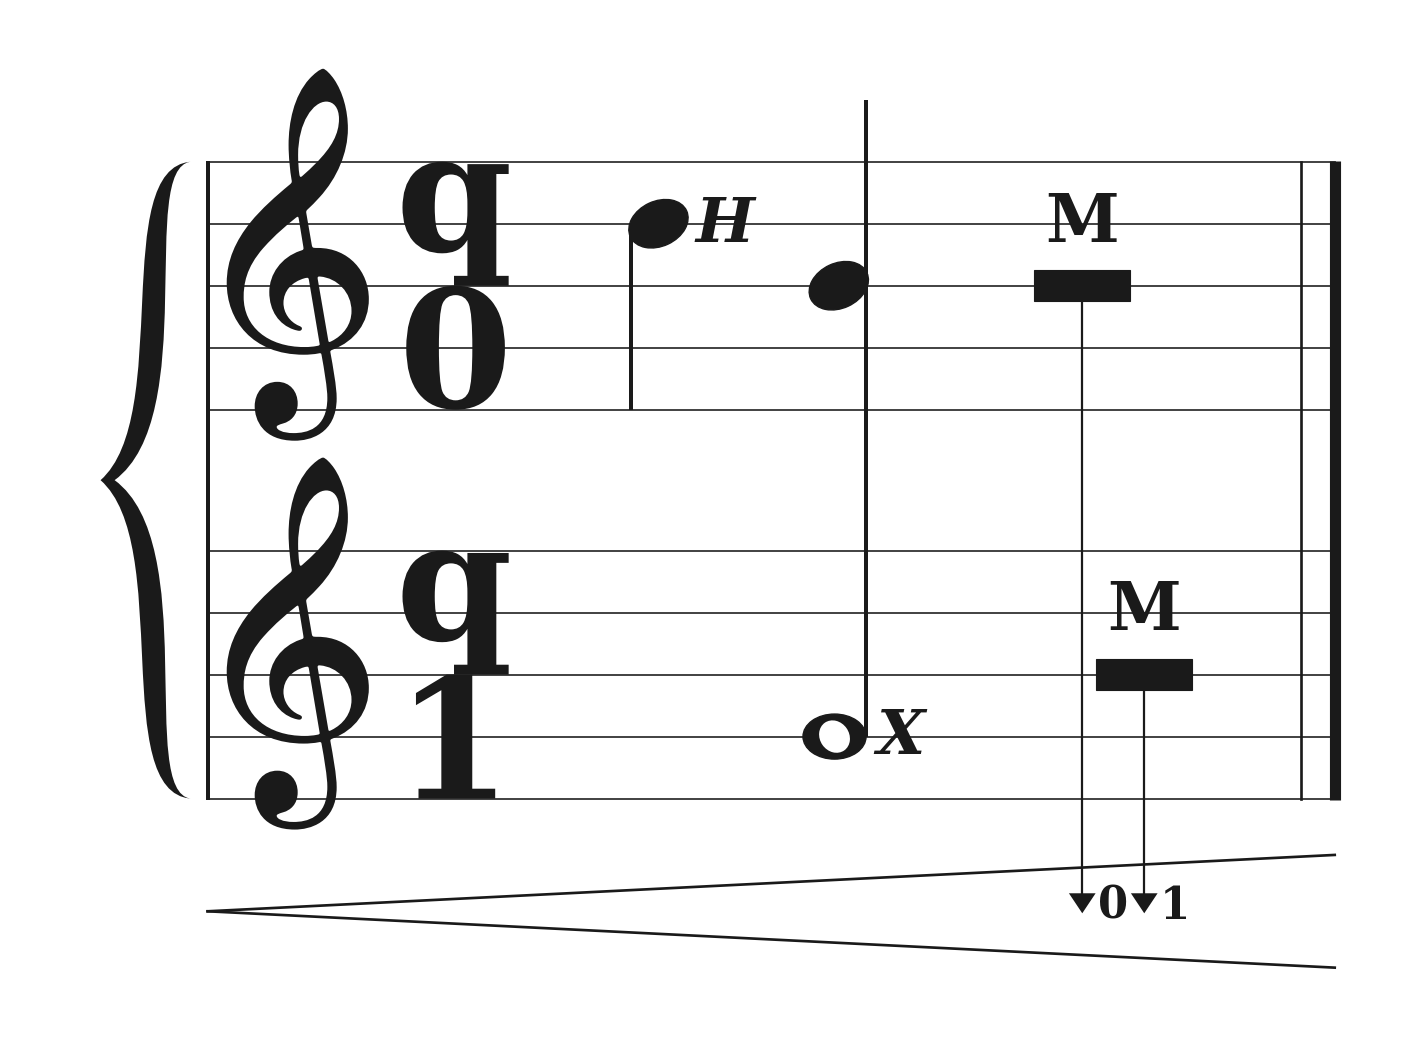
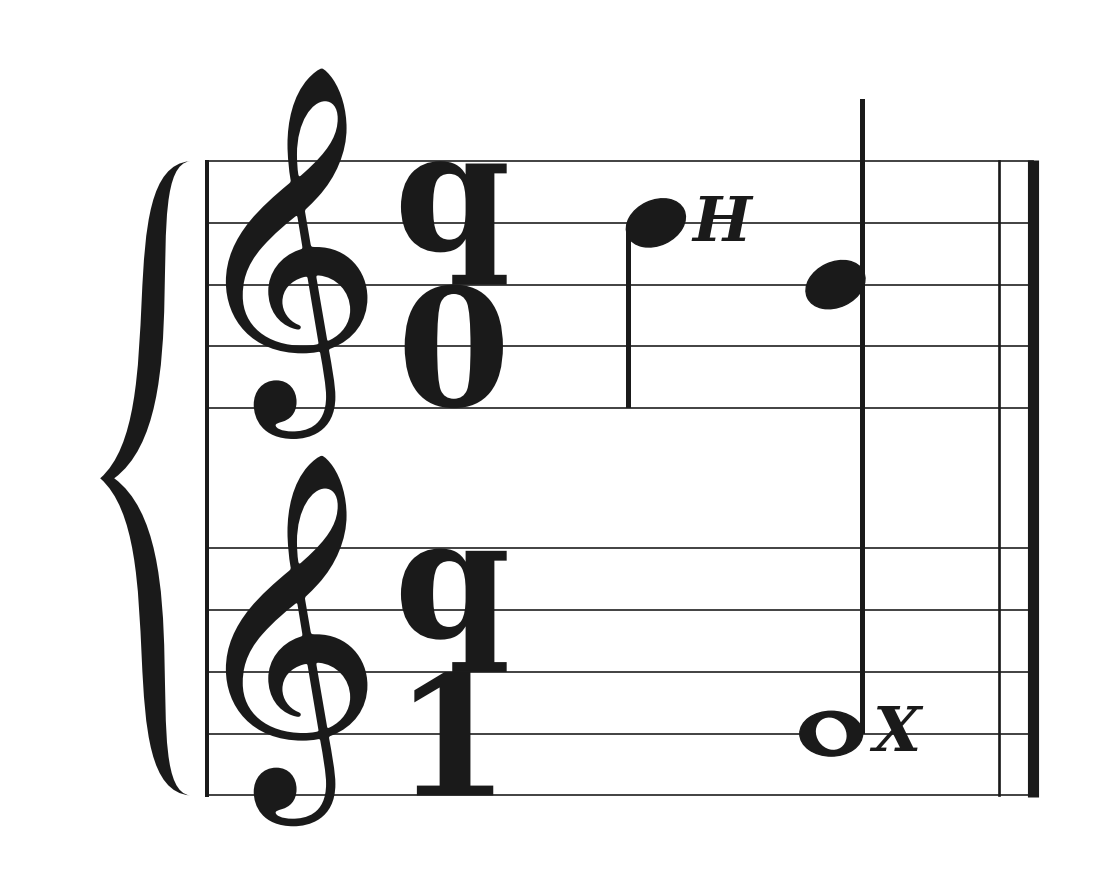
Remove measurement from hello world preview score and quickstart

Changed region(s): [[0.0615, 0.0607, 0.9538, 0.9404], [0.5846, 0.4551, 0.6462, 0.4854]]

diff --git a/docs/hello_world.py b/docs/hello_world.py
@@ -16,7 +16,6 @@ from QuantumSheets.audio import generate_audio
 qc = QuantumCircuit(2)
 qc.h(0)
 qc.cx(0, 1)
-qc.measure_all()
 
 if __name__ == "__main__":
     output_dir = Path(__file__).resolve().parent

diff --git a/README.md b/README.md
@@ -6,7 +6,7 @@ QuantumSheets is a Python library that renders Qiskit quantum circuits as classi
 
 ## Example: Qiskit Hello World
 
-The two-qubit Bell-state circuit from the [Qiskit quickstart](https://quantum.cloud.ibm.com/docs/en/guides/quick-start), rendered as classical sheet music on a white background. A Hadamard gate puts the first qubit in superposition, and a CNOT gate entangles the pair before measurement.
+The two-qubit Bell-state circuit from the [Qiskit quickstart](https://quantum.cloud.ibm.com/docs/en/guides/quick-start), rendered as classical sheet music on a white background. A Hadamard gate puts the first qubit in superposition, and a CNOT gate entangles the pair.
 
 ![Qiskit Hello World as classical sheet music on white](docs/hello_world_score.png)
 
@@ -64,7 +64,6 @@ from QuantumSheets import draw_circuit, generate_audio
 qc = QuantumCircuit(2)
 qc.h(0)
 qc.cx(0, 1)
-qc.measure_all()
 
 # Render classical notes on a white background
 draw_circuit(qc, filename="hello_world_score.png", style="clean", strip=True)
